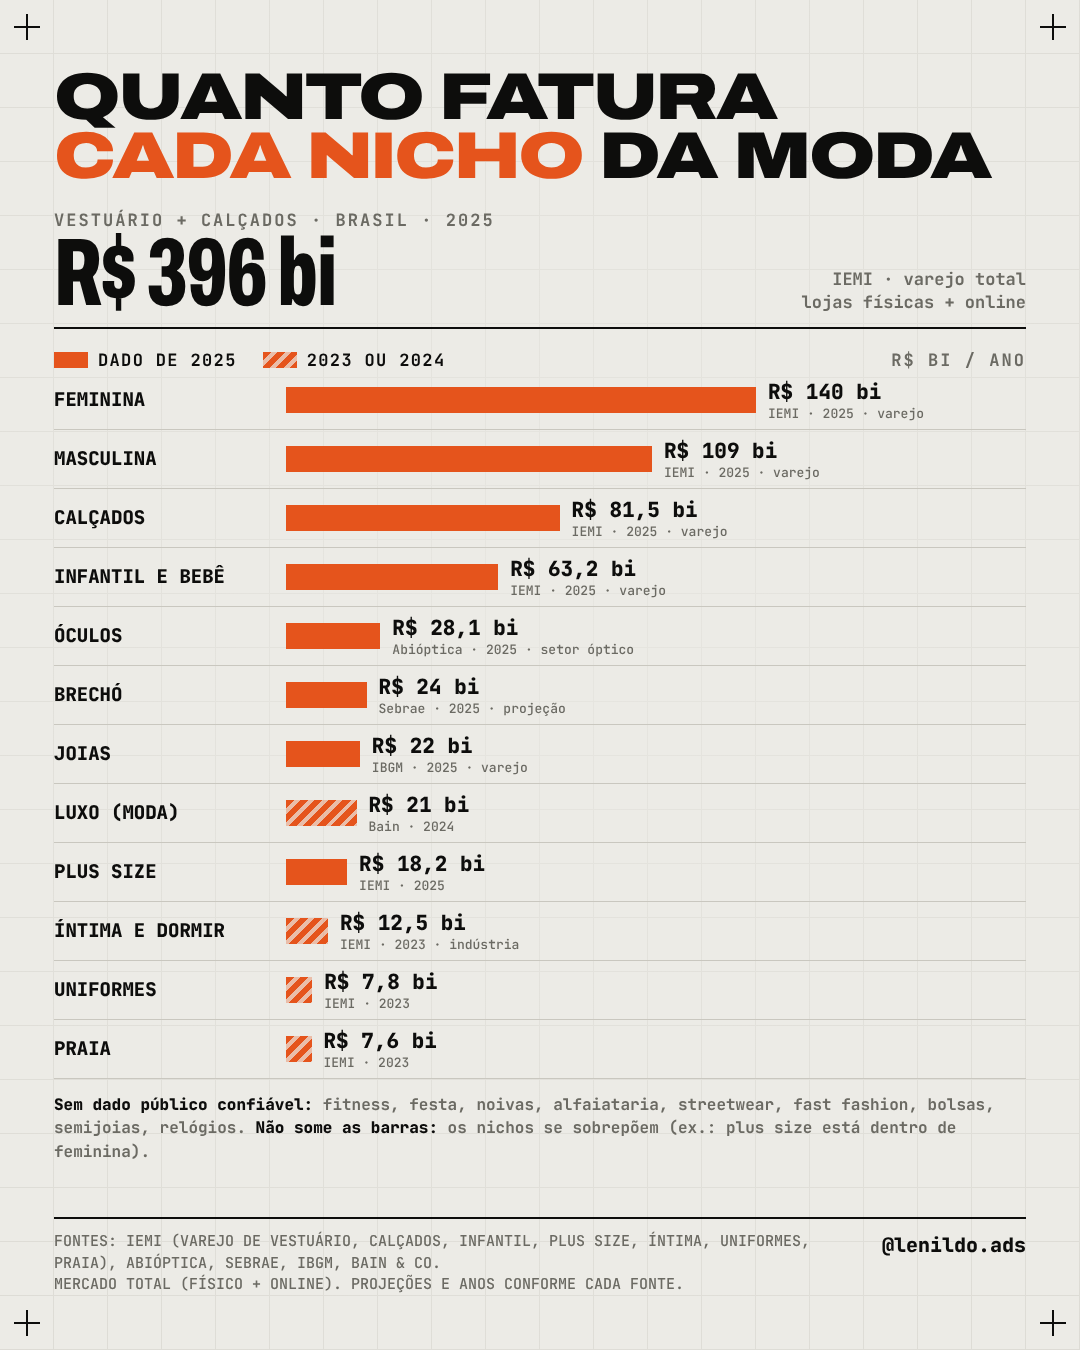
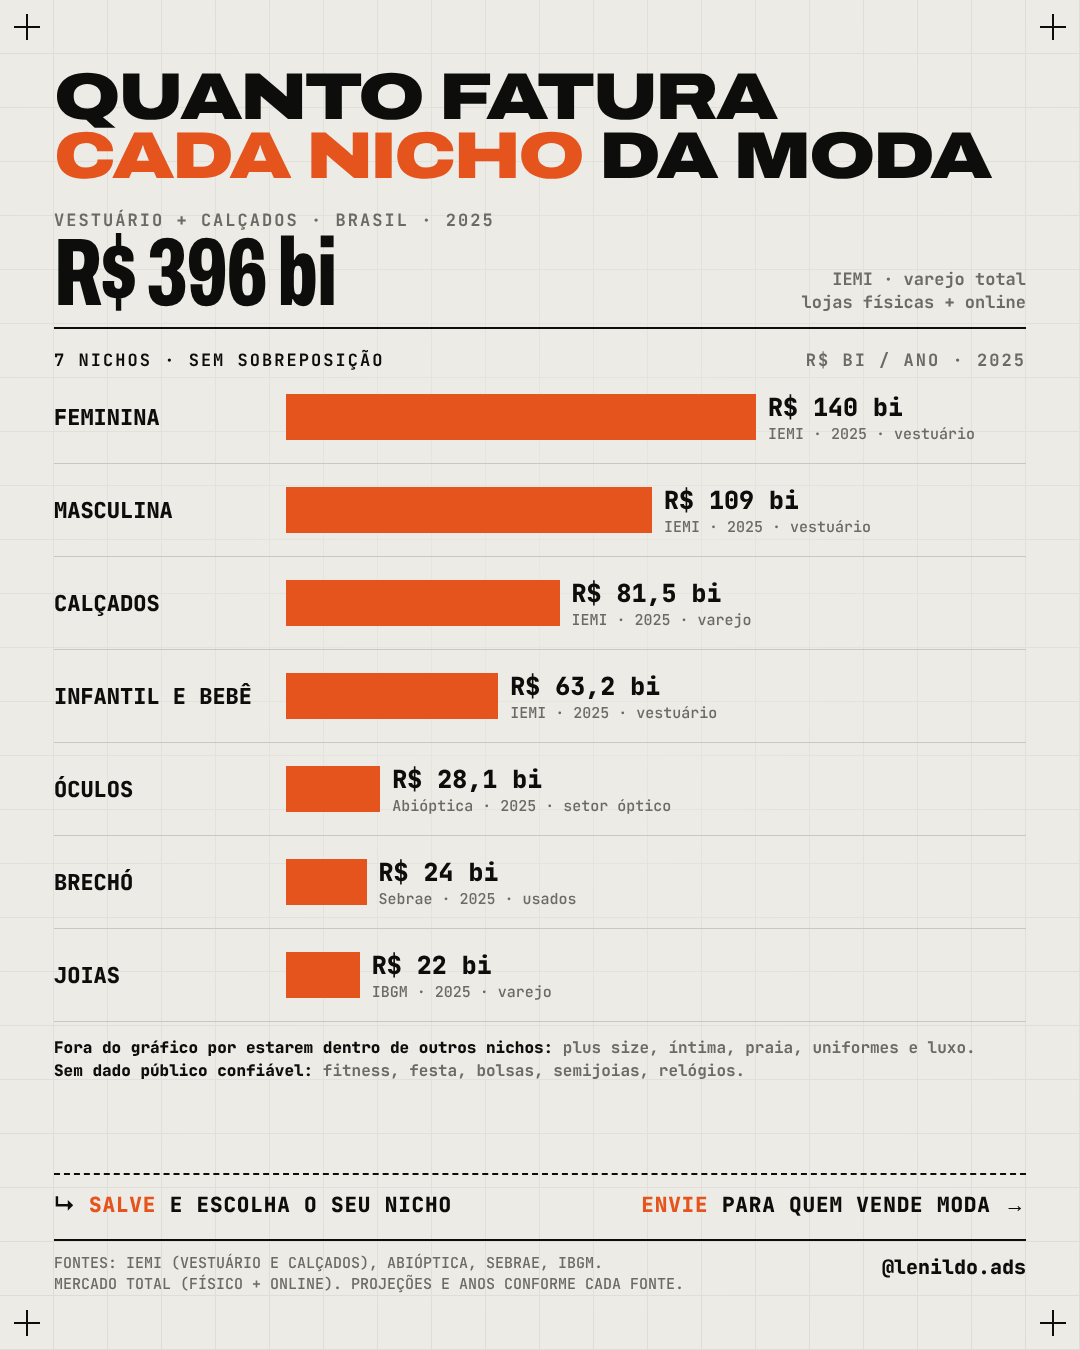
Keep only non-overlapping niches in revenue chart
Claude-Session: https://claude.ai/code/session_016ZsuYM2fNvgBpuDKyd2iM9

diff --git a/tools/ecom_posts/v2p4.html b/tools/ecom_posts/v2p4.html
@@ -4,12 +4,12 @@ h1{font-size:66px;margin-top:14px}
 .hero .n{font-size:96px}
 .hero .s{font:600 17px/1.4 'JetBrains Mono';color:var(--mut);text-align:right}
 .top{display:flex;justify-content:space-between;align-items:center;margin-top:20px}
-.r{display:grid;grid-template-columns:232px 1fr;align-items:center;padding:7px 0;border-bottom:1px solid var(--hair)}
-.r .nm{font:800 19px 'JetBrains Mono';text-transform:uppercase;line-height:1.15}
+.r{display:grid;grid-template-columns:232px 1fr;align-items:center;padding:19px 0;border-bottom:1px solid var(--hair)}
+.r .nm{font:800 22px 'JetBrains Mono';text-transform:uppercase;line-height:1.15}
 .r .bx{display:flex;align-items:center;gap:12px}
-.r i{display:block;height:26px}
-.r .v{font:800 21px 'JetBrains Mono';white-space:nowrap}
-.r .m{font:500 13px 'JetBrains Mono';color:var(--mut);white-space:nowrap}
+.r i{display:block;height:46px}
+.r .v{font:800 25px 'JetBrains Mono';white-space:nowrap}
+.r .m{font:500 15px 'JetBrains Mono';color:var(--mut);white-space:nowrap}
 .sol{background:var(--sig)}
 .hat{background:repeating-linear-gradient(135deg,var(--sig) 0 6px,rgba(229,84,28,.3) 6px 10px)}
 .nod{margin-top:14px;font:600 16px/1.45 'JetBrains Mono';color:var(--mut)}
@@ -19,15 +19,14 @@ h1{font-size:66px;margin-top:14px}
 <div class="wrap">
 <h1 class="disp">Quanto fatura<br><span class="sig">cada nicho</span> da moda</h1>
 <div class="hero"><div><div class="lab">Vestuário + calçados · Brasil · 2025</div><div class="cond n">R$ 396 bi</div></div><div class="s">IEMI · varejo total<br>lojas físicas + online</div></div>
-<div class="top"><div class="key"><span><i class="sol" style="background:var(--sig)"></i>Dado de 2025</span><span><i class="hat"></i>2023 ou 2024</span></div><span class="lab">R$ bi / ano</span></div>
+<div class="top"><span class="lab" style="color:var(--ink)">7 nichos · sem sobreposição</span><span class="lab">R$ bi / ano · 2025</span></div>
 <div id="ch"></div>
-<div class="nod"><b>Sem dado público confiável:</b> fitness, festa, noivas, alfaiataria, streetwear, fast fashion, bolsas, semijoias, relógios. <b>Não some as barras:</b> os nichos se sobrepõem (ex.: plus size está dentro de feminina).</div>
-<div class="foot"><span>FONTES: IEMI (VAREJO DE VESTUÁRIO, CALÇADOS, INFANTIL, PLUS SIZE, ÍNTIMA, UNIFORMES, PRAIA), ABIÓPTICA, SEBRAE, IBGM, BAIN & CO.<br>MERCADO TOTAL (FÍSICO + ONLINE). PROJEÇÕES E ANOS CONFORME CADA FONTE.</span><b>@lenildo.ads</b></div>
+<div class="nod"><b>Fora do gráfico por estarem dentro de outros nichos:</b> plus size, íntima, praia, uniformes e luxo.<br><b>Sem dado público confiável:</b> fitness, festa, bolsas, semijoias, relógios.</div>
+<div class="cta"><span>↳ <span class="sig">Salve</span> e escolha o seu nicho</span><span><span class="sig">Envie</span> para quem vende moda →</span></div><div class="foot"><span>FONTES: IEMI (VESTUÁRIO E CALÇADOS), ABIÓPTICA, SEBRAE, IBGM.<br>MERCADO TOTAL (FÍSICO + ONLINE). PROJEÇÕES E ANOS CONFORME CADA FONTE.</span><b>@lenildo.ads</b></div>
 </div>
 <script>
-const D=[["Feminina",140,"IEMI · 2025 · varejo",1],["Masculina",109,"IEMI · 2025 · varejo",1],["Calçados",81.5,"IEMI · 2025 · varejo",1],["Infantil e bebê",63.2,"IEMI · 2025 · varejo",1],
-["Óculos",28.1,"Abióptica · 2025 · setor óptico",1],["Brechó",24,"Sebrae · 2025 · projeção",1],["Joias",22,"IBGM · 2025 · varejo",1],["Luxo (moda)",21,"Bain · 2024",0],
-["Plus size",18.2,"IEMI · 2025",1],["Íntima e dormir",12.5,"IEMI · 2023 · indústria",0],["Uniformes",7.8,"IEMI · 2023",0],["Praia",7.6,"IEMI · 2023",0]];
+const D=[["Feminina",140,"IEMI · 2025 · vestuário",1],["Masculina",109,"IEMI · 2025 · vestuário",1],["Calçados",81.5,"IEMI · 2025 · varejo",1],["Infantil e bebê",63.2,"IEMI · 2025 · vestuário",1],
+["Óculos",28.1,"Abióptica · 2025 · setor óptico",1],["Brechó",24,"Sebrae · 2025 · usados",1],["Joias",22,"IBGM · 2025 · varejo",1]];
 const W=470,max=140,f=v=>(Number.isInteger(v)?v:v.toFixed(1).replace('.',','));
 document.getElementById('ch').innerHTML=D.map(([n,v,m,y])=>`<div class="r"><div class="nm">${n}</div><div class="bx"><i class="${y?'sol':'hat'}" style="width:${Math.max(6,v/max*W)}px"></i><div><div class="v">R$ ${f(v)} bi</div><div class="m">${m}</div></div></div></div>`).join('');
 </script>
